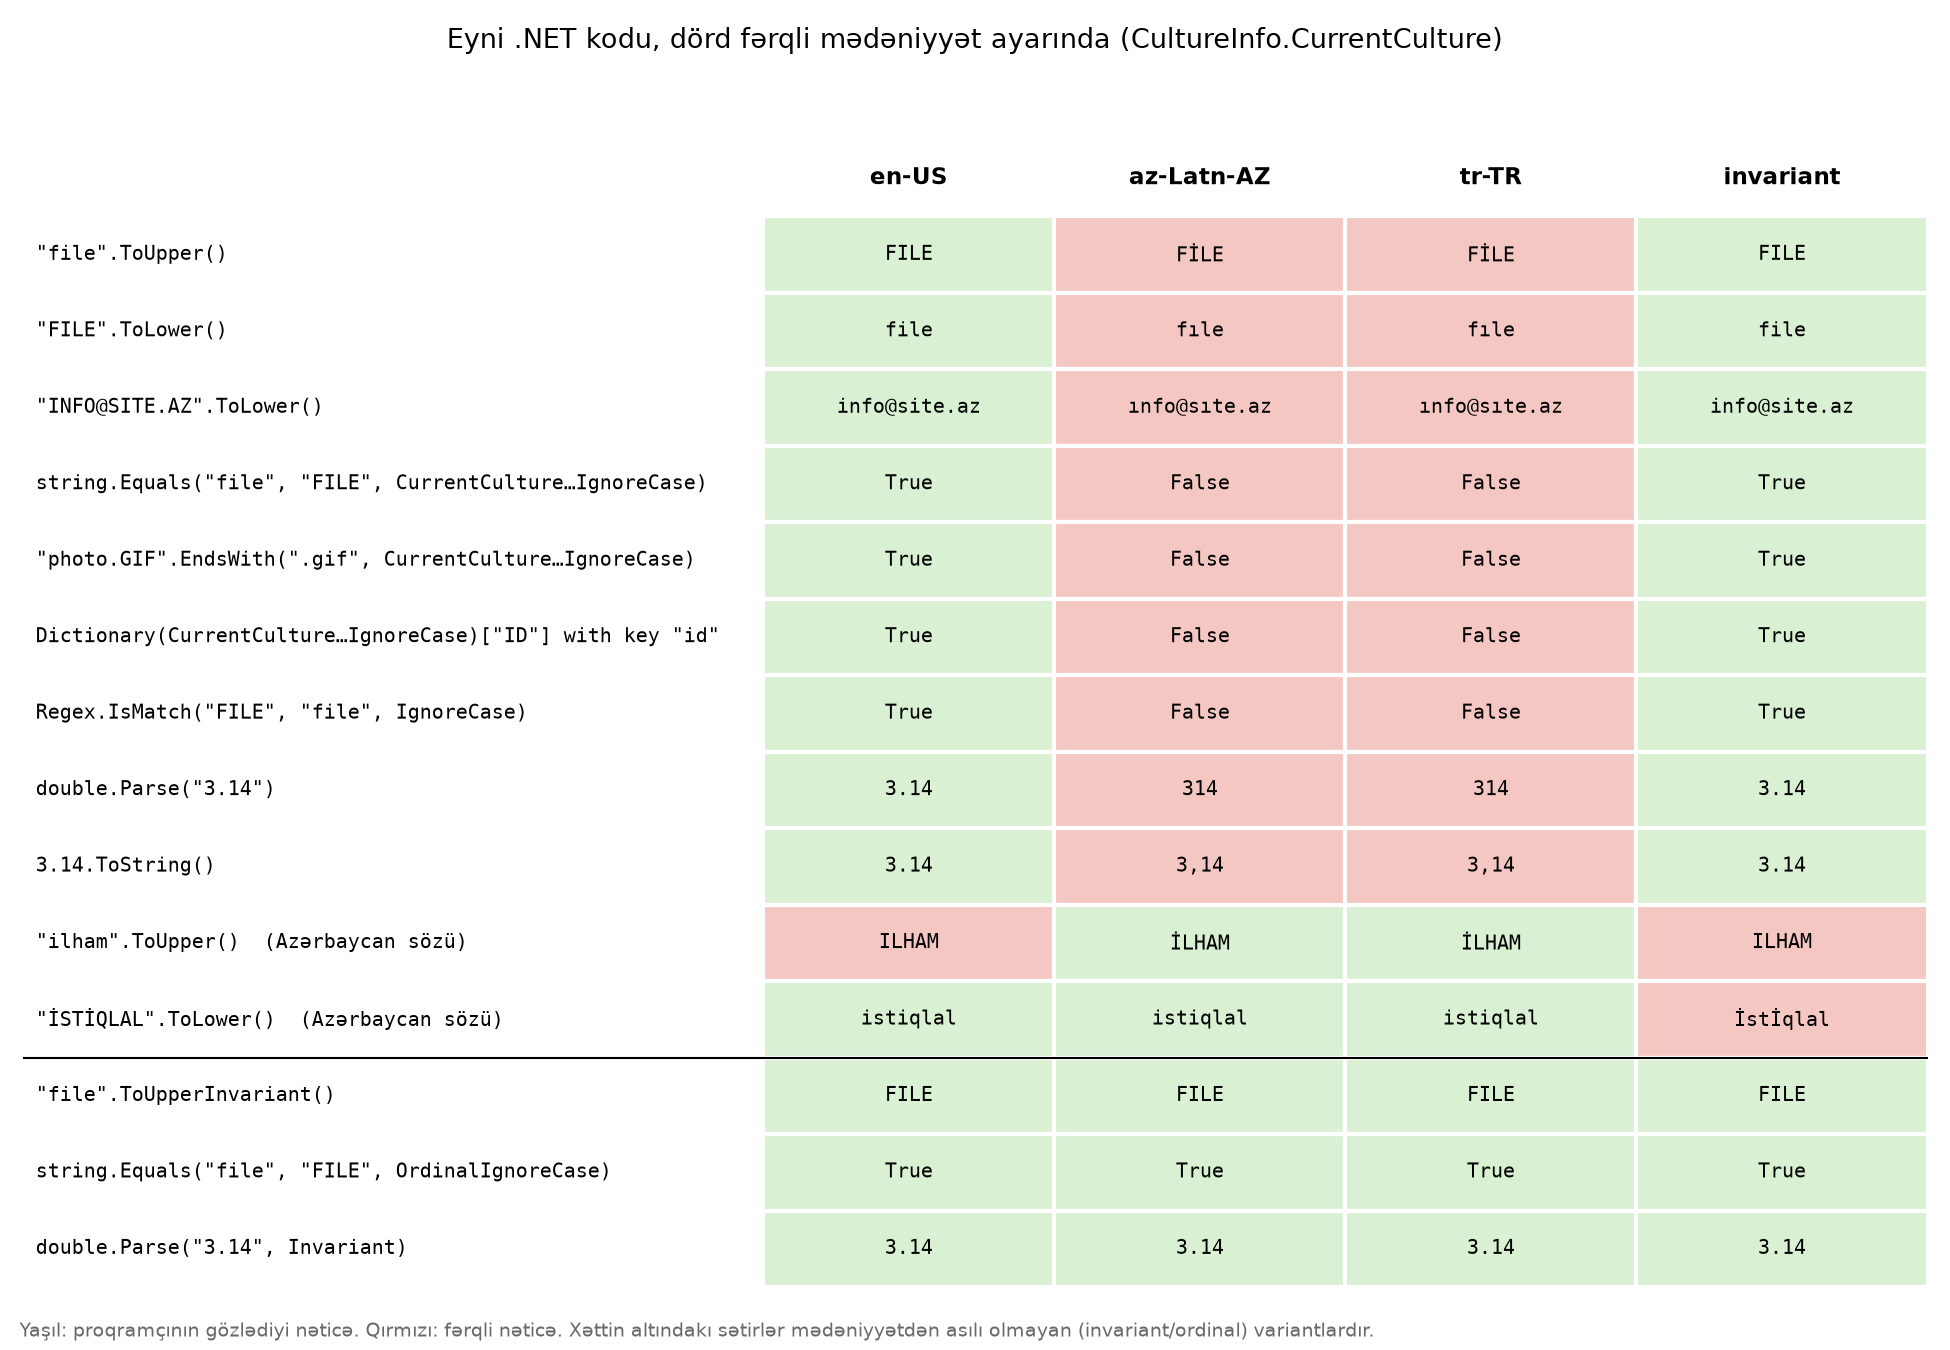
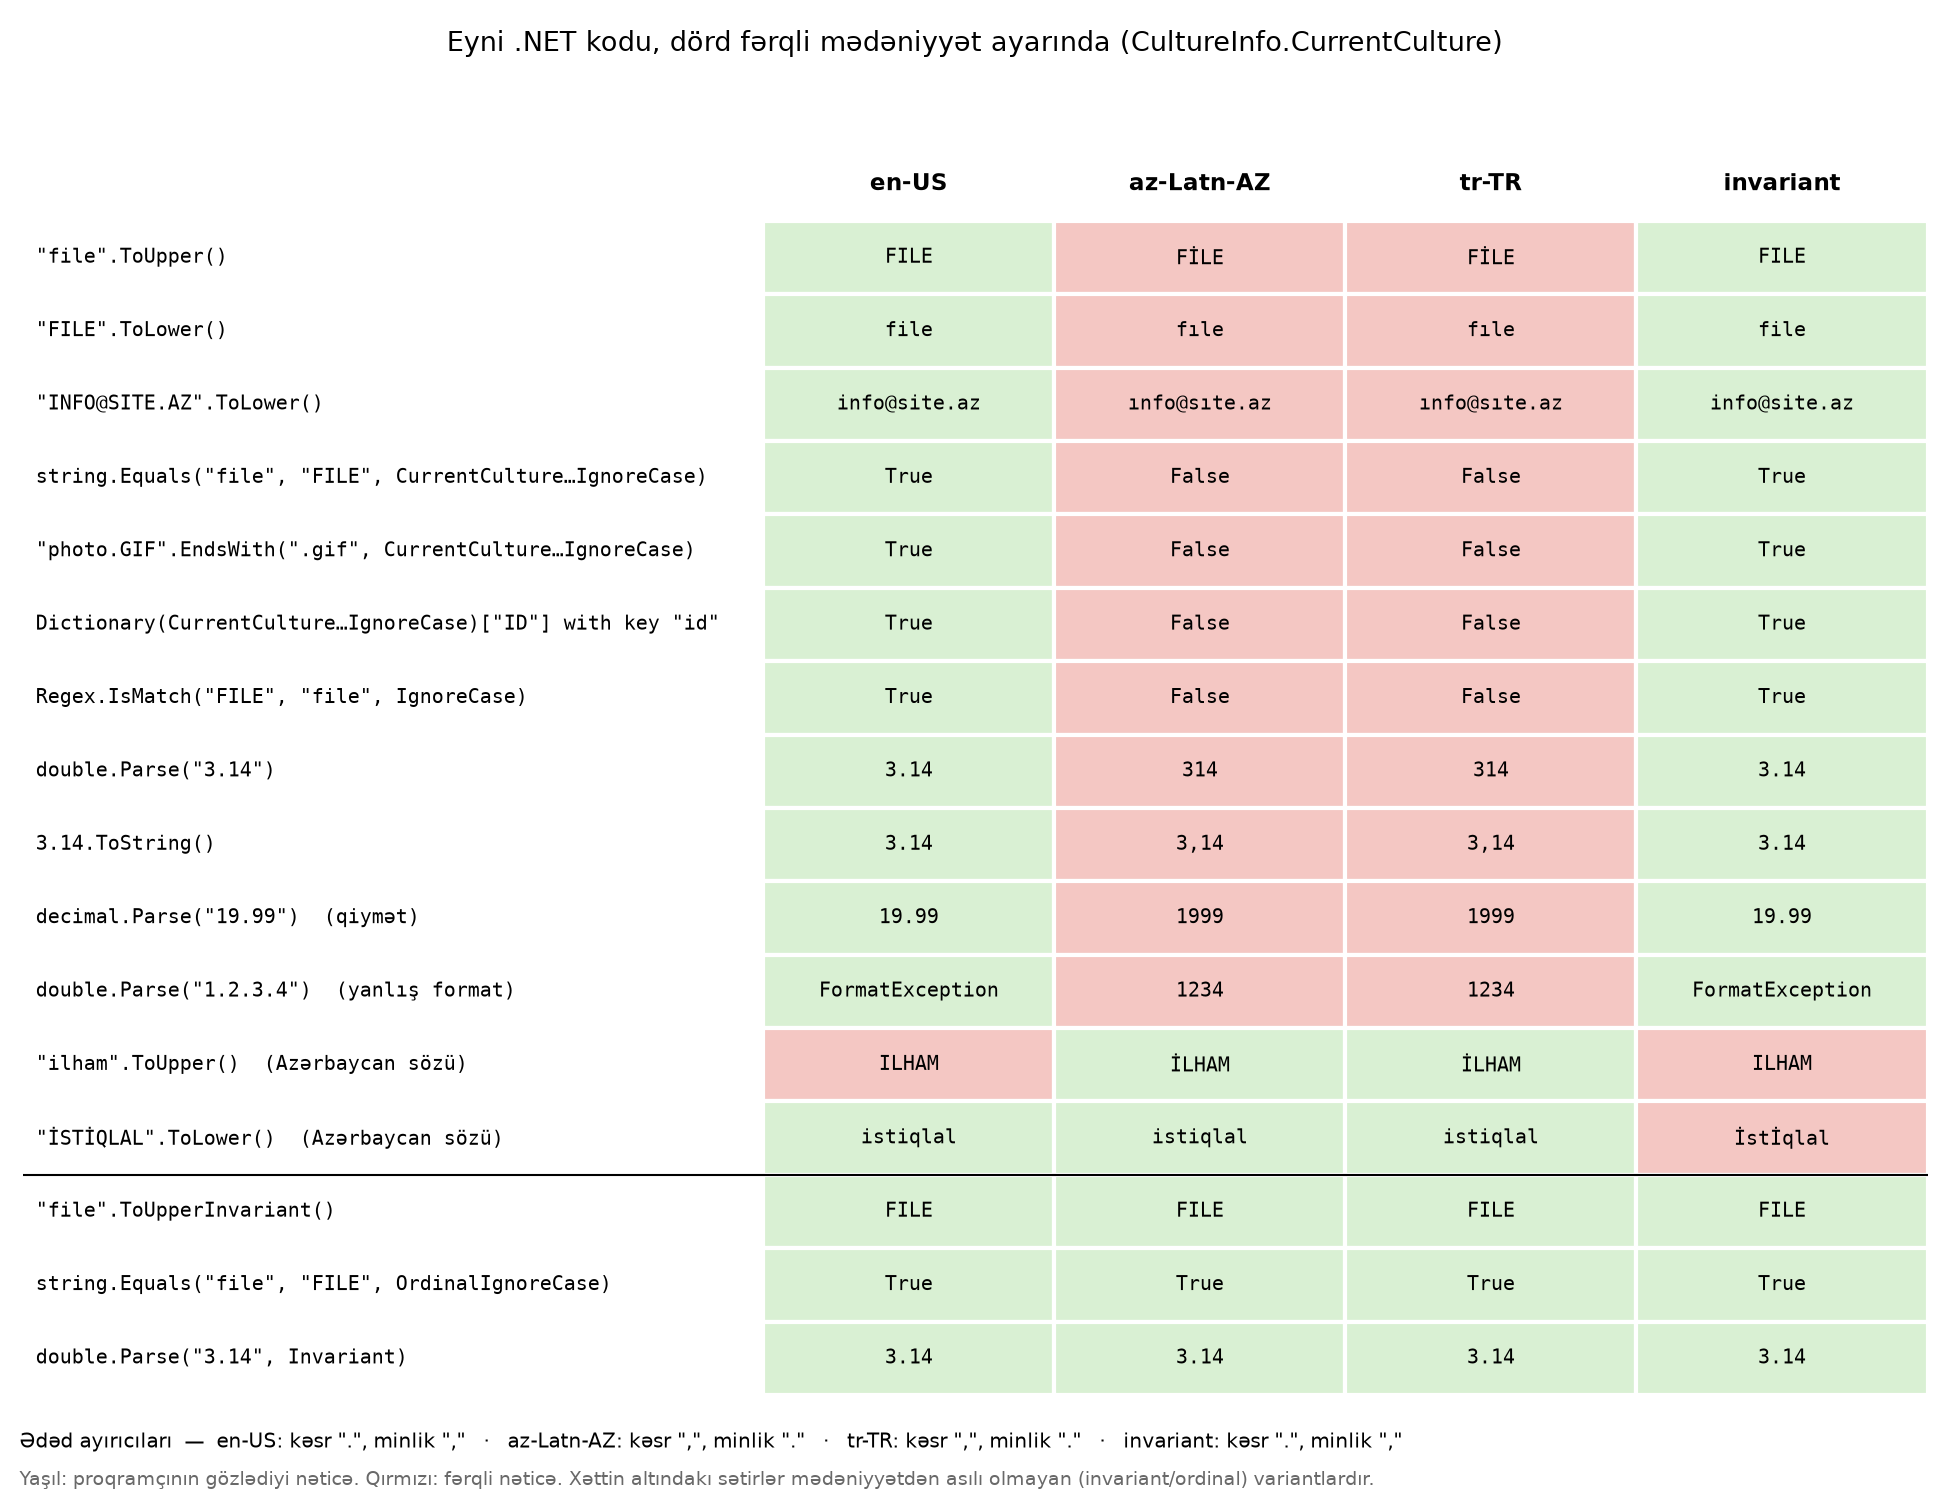
Add exchange rate tests and match controls to the post

diff --git a/az-culture-bugs/dotnet/Program.cs b/az-culture-bugs/dotnet/Program.cs
@@ -30,6 +30,8 @@ var tests = new (string Id, string Code, Func<string> Run, string Expected)[]
         () => Regex.IsMatch("FILE", "file", RegexOptions.IgnoreCase).ToString(), "True"),
     ("double_parse", "double.Parse(\"3.14\")", () => double.Parse("3.14").ToString(CultureInfo.InvariantCulture), "3.14"),
     ("double_tostring", "3.14.ToString()", () => 3.14.ToString(), "3.14"),
+    ("rate_parse", "decimal.Parse(\"1.7000\")  (USD/AZN kursu)", () => decimal.Parse("1.7000").ToString(CultureInfo.InvariantCulture), "1.7000"),
+    ("rate_convert", "250 * decimal.Parse(\"1.7000\")  (250 USD manatla)", () => (250m * decimal.Parse("1.7000")).ToString("0.##", CultureInfo.InvariantCulture), "425"),
     ("price_parse", "decimal.Parse(\"19.99\")  (qiymət)", () => decimal.Parse("19.99").ToString(CultureInfo.InvariantCulture), "19.99"),
     ("lenient_group", "double.Parse(\"1.2.3.4\")  (yanlış format)", () => double.Parse("1.2.3.4").ToString(CultureInfo.InvariantCulture), "FormatException"),
     ("az_upper", "\"ilham\".ToUpper()  (Azerbaijani word)", () => "ilham".ToUpper(), "İLHAM"),
